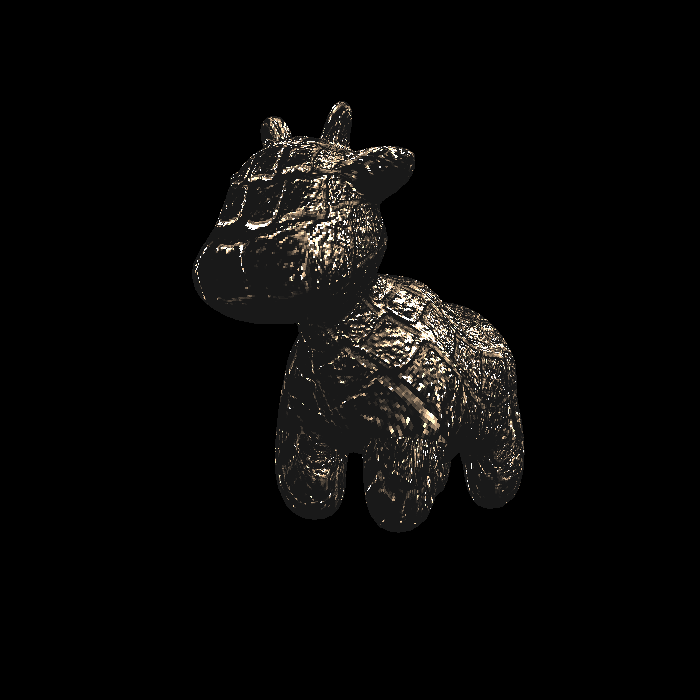
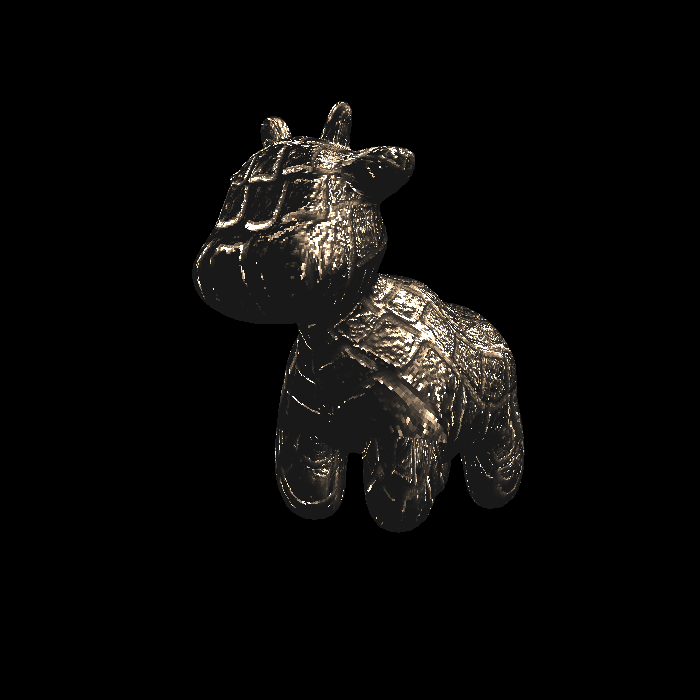
Fixed displacement shader.

diff --git a/GAMES101/Assignment3/main.cpp b/GAMES101/Assignment3/main.cpp
@@ -247,7 +247,7 @@ Eigen::Vector3f displacement_fragment_shader(const fragment_shader_payload &payl
      *        4. Adjust the location of the target shading point
      */
 
-    Eigen::Vector3f &n = normal; // Quick reference for the normal vector
+    Eigen::Vector3f n = normal; // Quick reference for the normal vector
     Eigen::Vector3f t = Eigen::Vector3f{n.x() * n.y(), n.x() * n.x() + n.z() * n.z(), n.z() * n.y()} / std::sqrt(n.x() * n.x() + n.z() * n.z());
     Eigen::Vector3f b = n.cross(t); // Bitangent
     Eigen::Matrix3f TBN;
@@ -425,7 +425,7 @@ int main(int argc, const char **argv)
         }
         else if (argc == 3 && std::string(argv[2]) == "displacement")
         {
-            std::cout << "Rasterizing using the bump shader\n";
+            std::cout << "Rasterizing using the displacement shader\n";
             active_shader = displacement_fragment_shader;
         }
     }
@@ -444,7 +444,7 @@ int main(int argc, const char **argv)
         r.set_model(get_model_matrix(angle));
         r.set_view(get_view_matrix(eye_pos));
         // r.set_projection(get_projection_matrix(45.0, 1, 0.1, 50)); // DEBUG: Original: 45.0, 1, 0.1, 50
-        r.set_projection(get_projection_matrix(10.0, 1, 0.1, 50)); // DEBUG: Original: 45.0, 1, 0.1, 50
+        r.set_projection(get_projection_matrix(20.0, 1, 0.1, 50)); // DEBUG: Original: 45.0, 1, 0.1, 50
 
         r.draw(TriangleList);
         cv::Mat image(700, 700, CV_32FC3, r.frame_buffer().data());
@@ -463,7 +463,7 @@ int main(int argc, const char **argv)
         r.set_model(get_model_matrix(angle));
         r.set_view(get_view_matrix(eye_pos));
         // r.set_projection(get_projection_matrix(45.0, 1, 0.1, 50)); // DEBUG: Original: 45.0, 1, 0.1, 50
-        r.set_projection(get_projection_matrix(10.0, 1, 0.1, 50)); // DEBUG: Original: 45.0, 1, 0.1, 50
+        r.set_projection(get_projection_matrix(20.0, 1, 0.1, 50)); // DEBUG: Original: 45.0, 1, 0.1, 50
 
         // r.draw(pos_id, ind_id, col_id, rst::Primitive::Triangle);
         r.draw(TriangleList);
